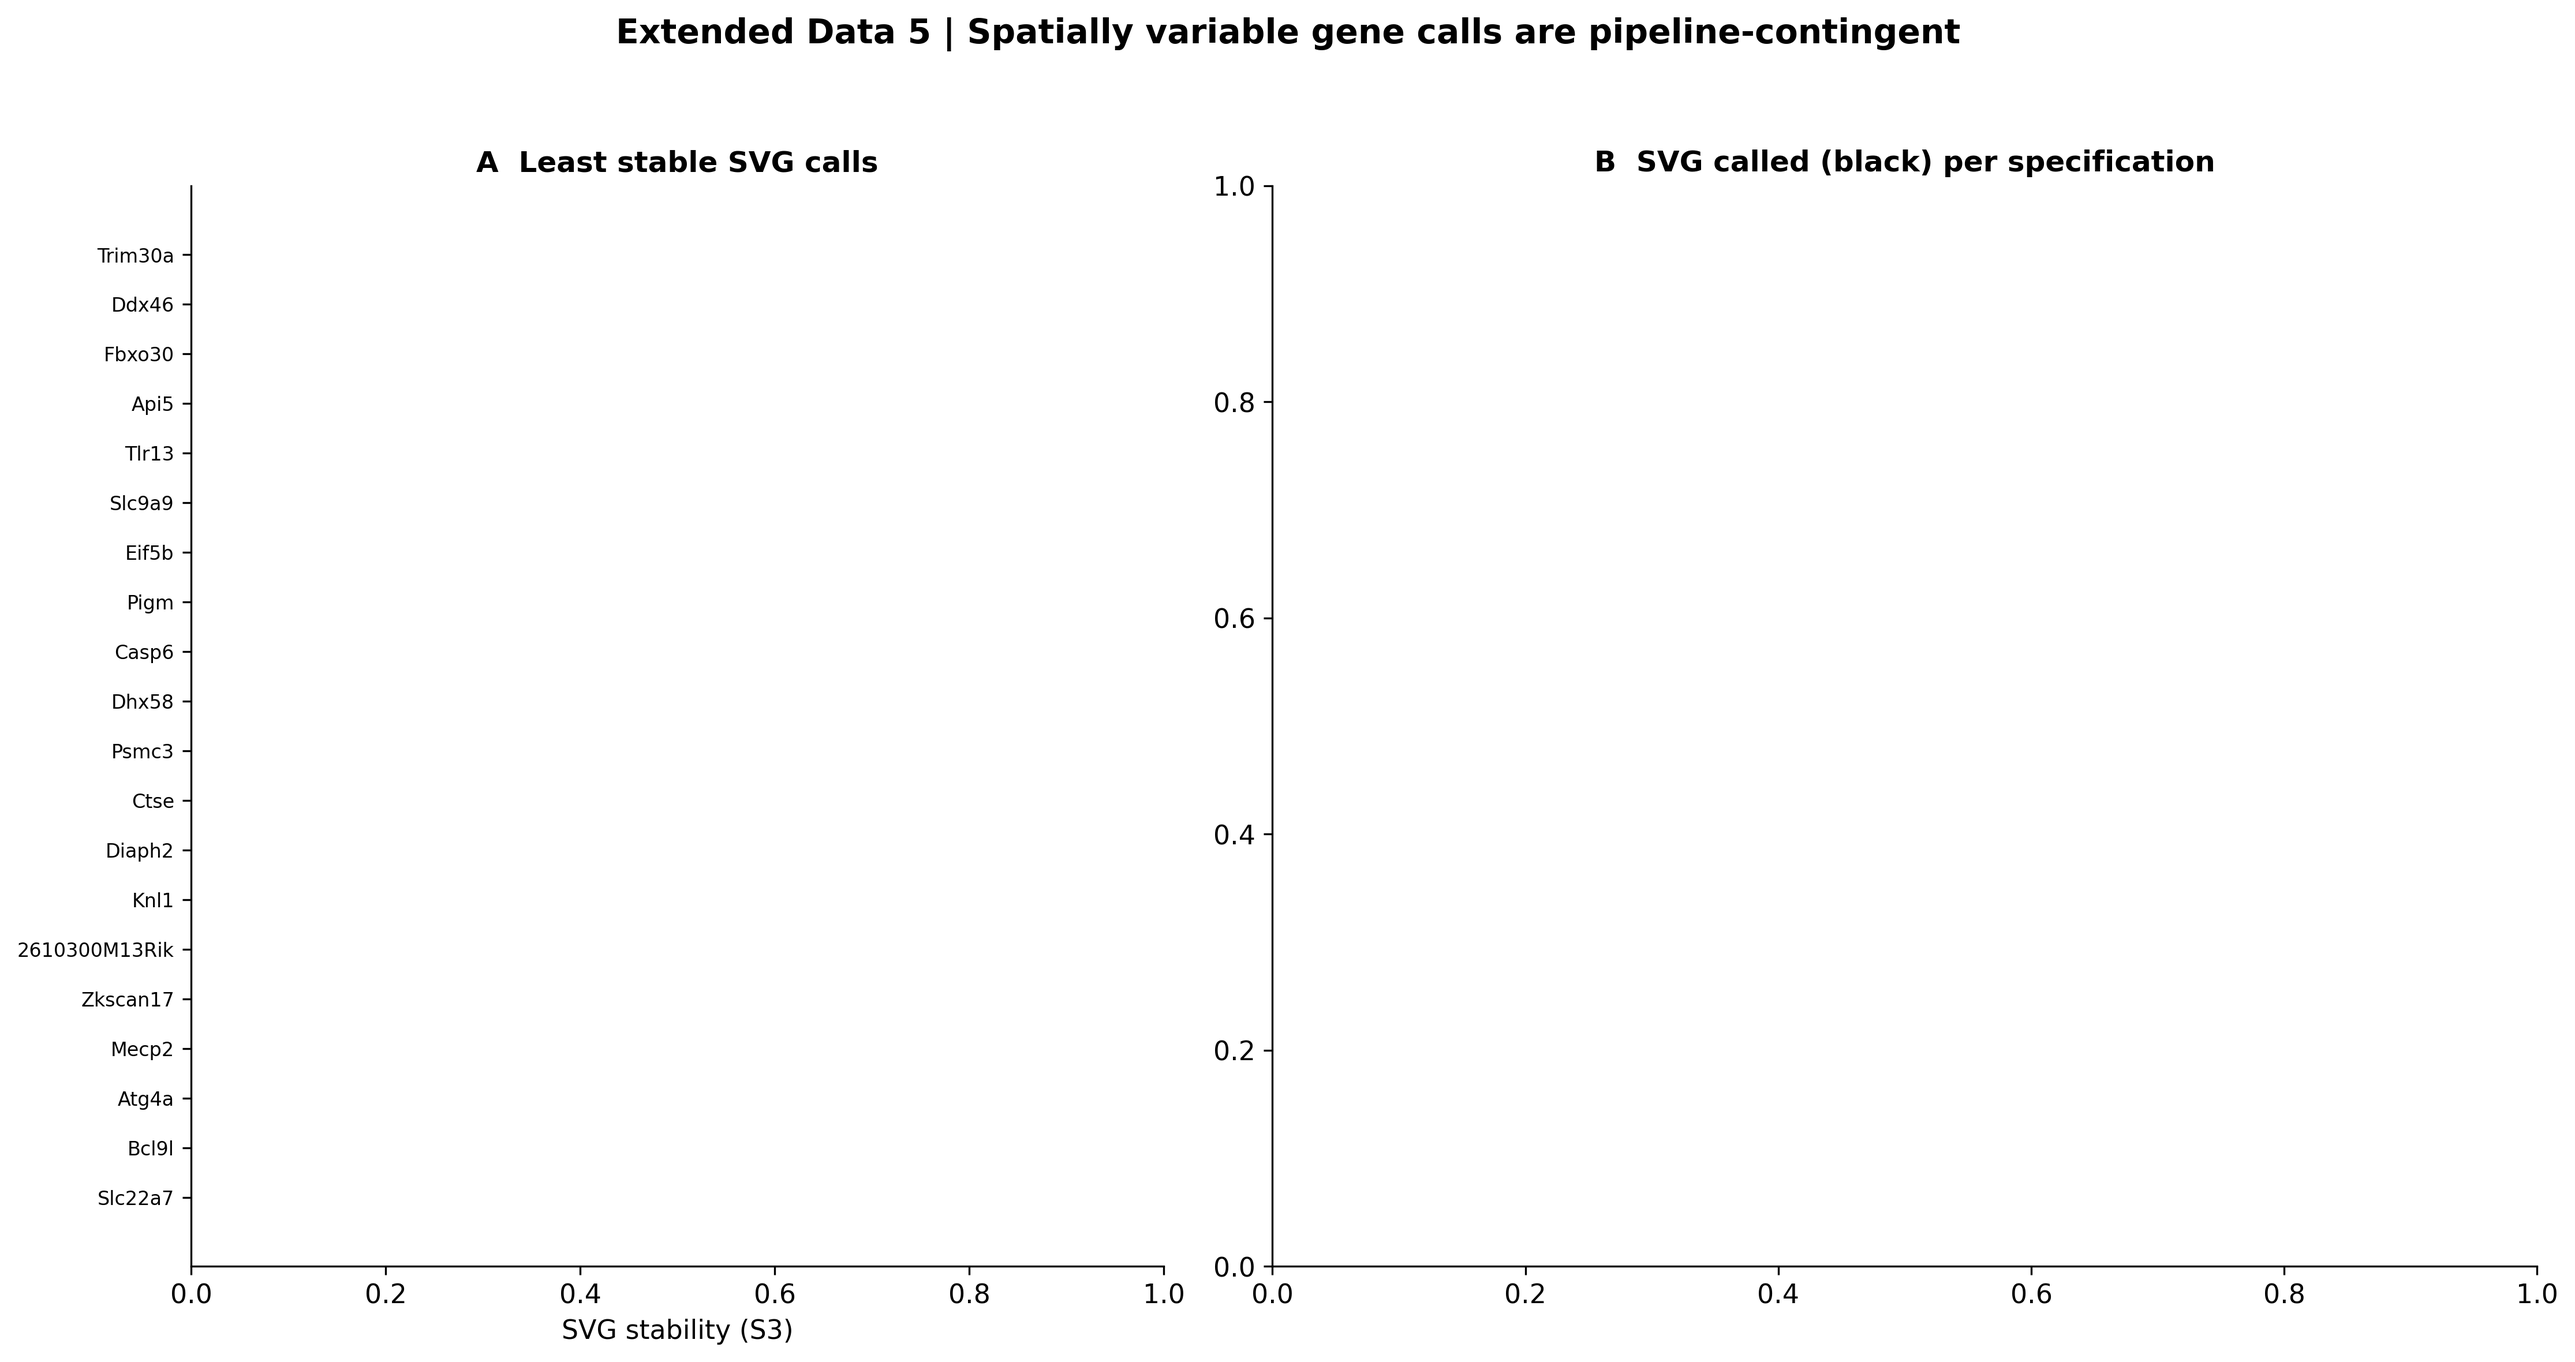
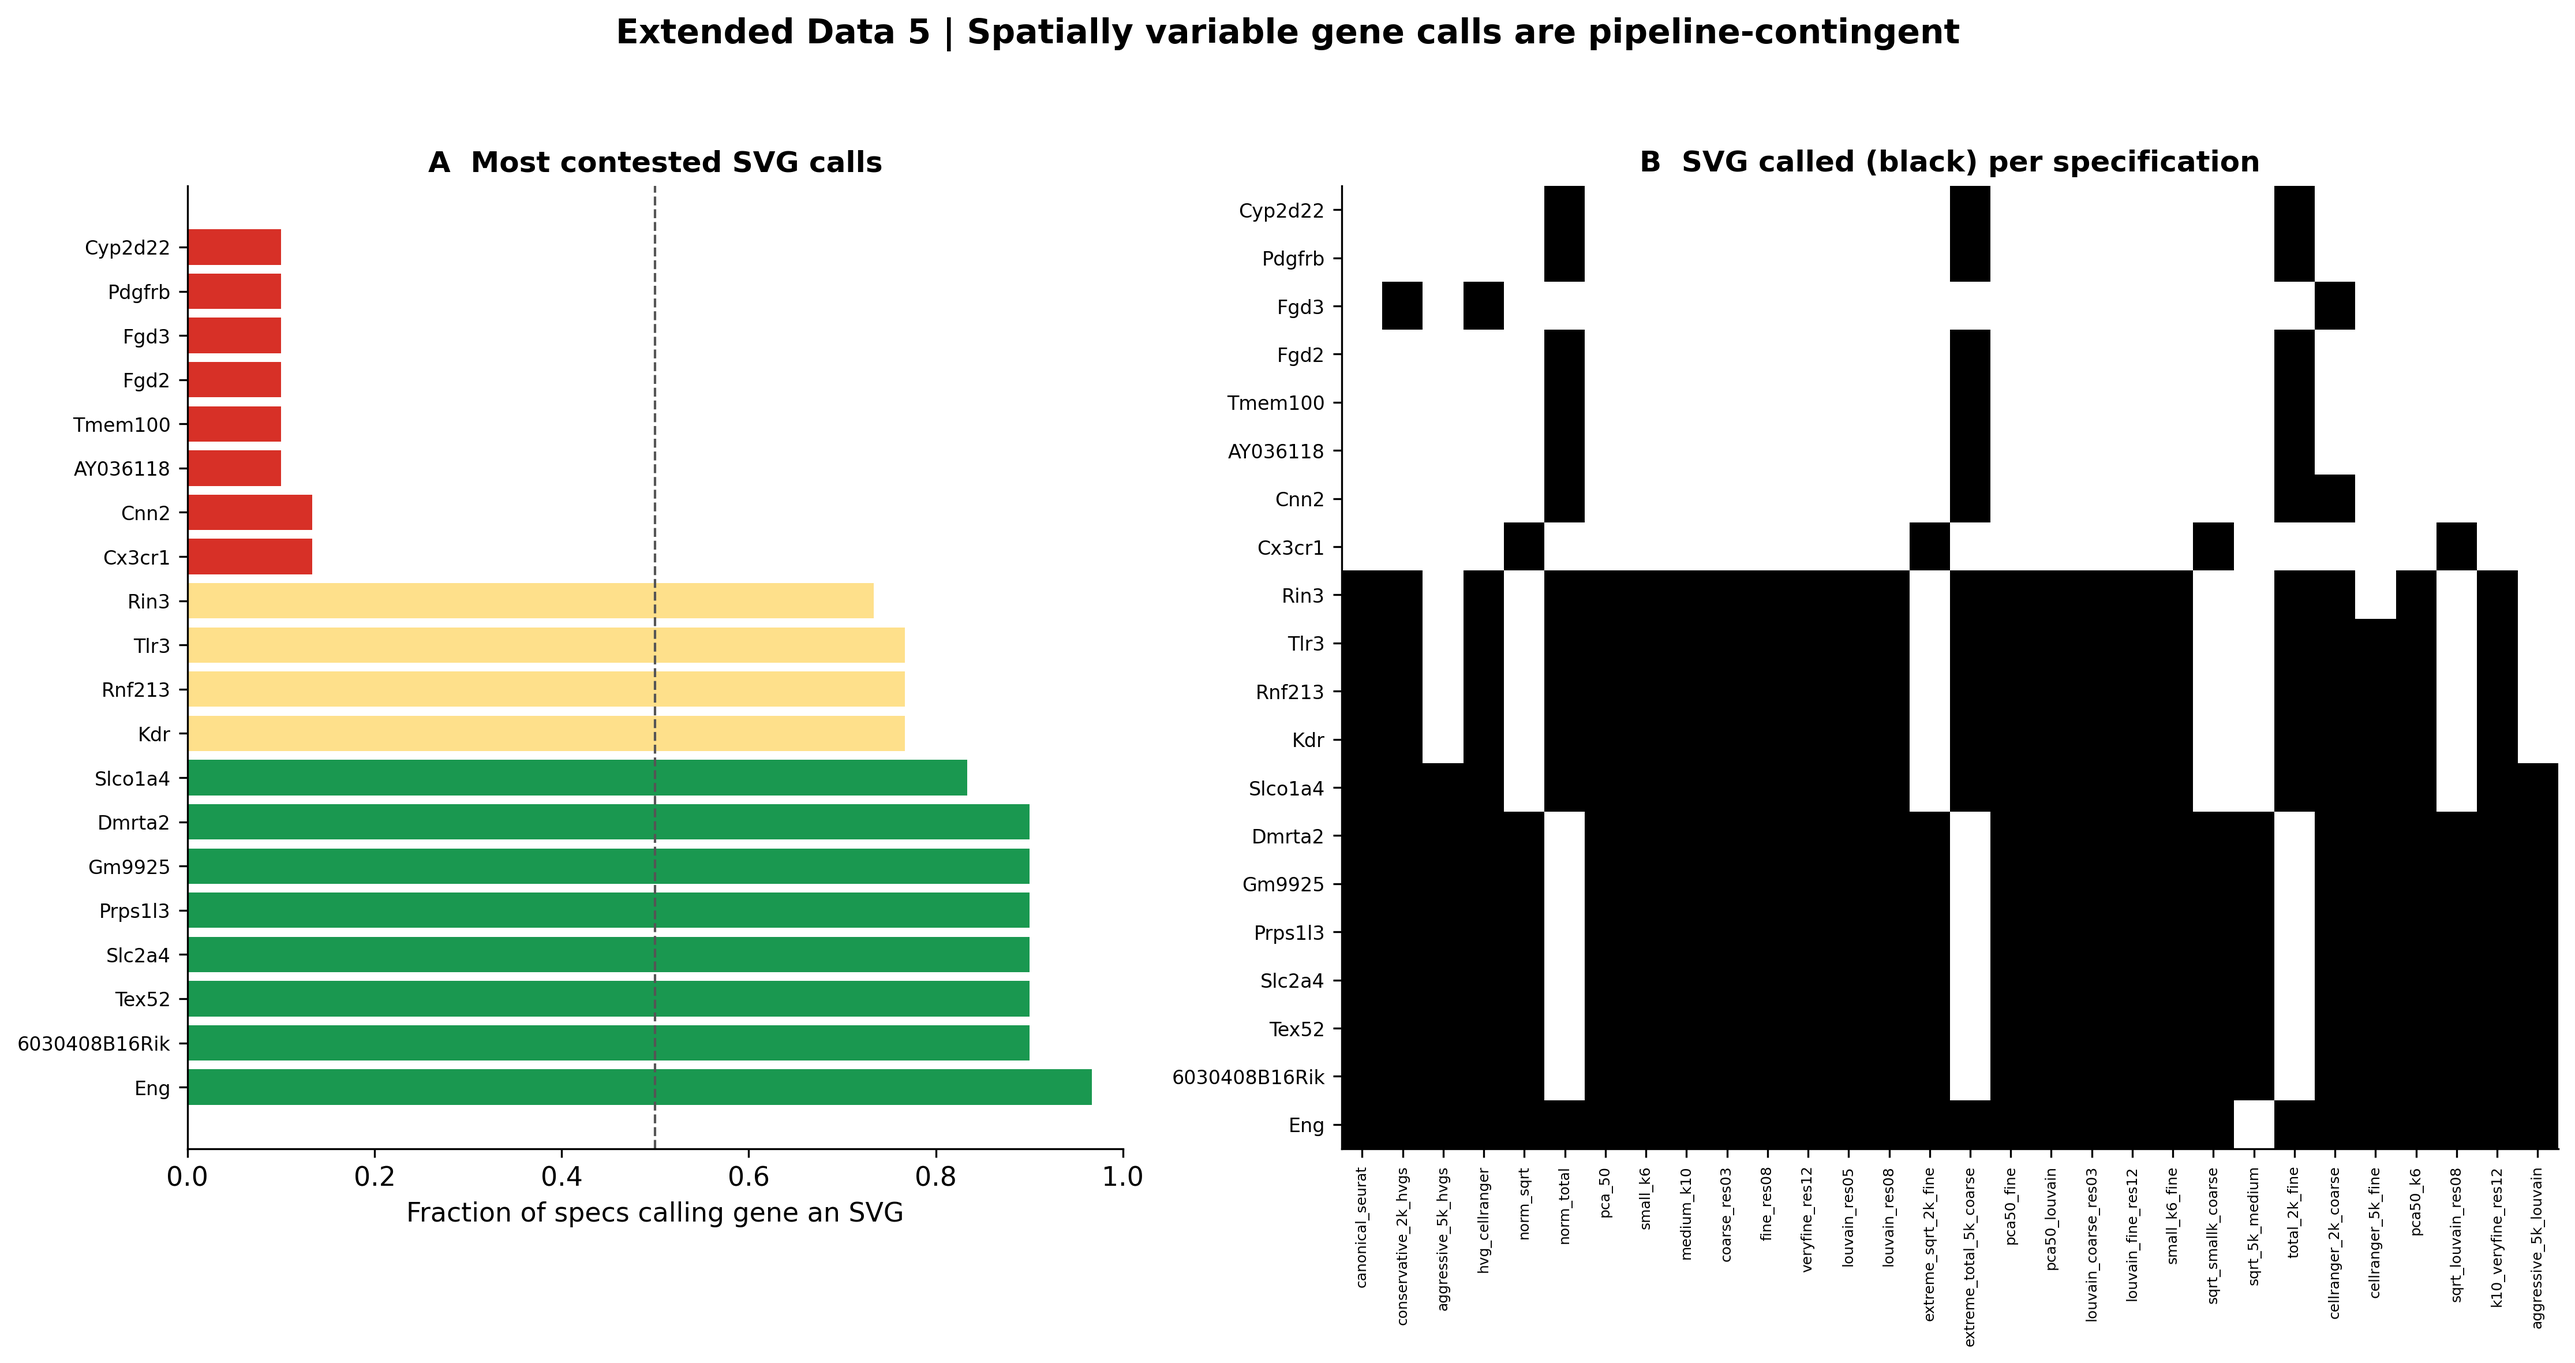
fix empty ED5: rank SVG stability within genes tested in every spec
the old ranking picked globally lowest-S3 genes, which are ones rarely selected
as HVGs (S3~0, and excluded from the common-tested set) -> empty panels; now
rank by SVG call frequency among commonly-tested genes and show the concordance

diff --git a/src/visualization.py b/src/visualization.py
@@ -357,29 +357,41 @@ def ed5_per_feature_stability(
     output_path: Optional[Path] = None,
     top_n: int = 20,
 ) -> None:
-    """Least-stable SVGs barplot + gene x spec SVG concordance heatmap."""
+    """Most-contested SVGs barplot + gene x spec SVG concordance heatmap.
+
+    Restricted to genes tested in every specification, so "instability" reflects
+    genuine significance flips rather than a gene being dropped by feature
+    selection. Genes are ranked by how close their call frequency is to 50%
+    (maximally contested); the SVG stability shown is that call frequency.
+    """
     fig, axes = plt.subplots(1, 2, figsize=(15, 8), gridspec_kw={"width_ratios": [1, 1.3]})
 
-    unstable = per_feature.nsmallest(top_n, "s3_score")
-    colors = ["#D73027" if v < 0.5 else "#FEE08B" if v < 0.8 else "#1A9850"
-              for v in unstable["s3_score"]]
-    axes[0].barh(range(len(unstable)), unstable["s3_score"], color=colors)
-    axes[0].set_yticks(range(len(unstable)))
-    axes[0].set_yticklabels(unstable["gene"], fontsize=8)
+    conc = svg_concordance_matrix(runs, common_only=True)
+    if conc.empty:
+        logger.warning("No genes tested in every spec; skipping ED5")
+        plt.close(fig)
+        return
+
+    gene_freq = conc.mean(axis=1)  # fraction of specs calling each gene an SVG
+    contested = (gene_freq - 0.5).abs().nsmallest(top_n).index
+    freq = gene_freq.loc[contested].sort_values()
+
+    colors = ["#D73027" if v < 0.5 else "#FEE08B" if v < 0.8 else "#1A9850" for v in freq]
+    axes[0].barh(range(len(freq)), freq.values, color=colors)
+    axes[0].set_yticks(range(len(freq)))
+    axes[0].set_yticklabels(freq.index, fontsize=8)
     axes[0].invert_yaxis()
     axes[0].set_xlim(0, 1)
-    axes[0].set_xlabel("SVG stability (S3)")
-    axes[0].set_title("A  Least stable SVG calls")
+    axes[0].axvline(0.5, color="#555555", ls="--", lw=1)
+    axes[0].set_xlabel("Fraction of specs calling gene an SVG")
+    axes[0].set_title("A  Most contested SVG calls")
 
-    conc = svg_concordance_matrix(runs, common_only=True)
-    genes = [g for g in unstable["gene"] if g in conc.index]
-    if genes:
-        sub = conc.loc[genes]
-        axes[1].imshow(sub.values, aspect="auto", cmap="binary", interpolation="nearest")
-        axes[1].set_yticks(range(len(sub)))
-        axes[1].set_yticklabels(sub.index, fontsize=8)
-        axes[1].set_xticks(range(sub.shape[1]))
-        axes[1].set_xticklabels(sub.columns, rotation=90, fontsize=6)
+    sub = conc.loc[freq.index]
+    axes[1].imshow(sub.values, aspect="auto", cmap="binary", interpolation="nearest")
+    axes[1].set_yticks(range(len(sub)))
+    axes[1].set_yticklabels(sub.index, fontsize=8)
+    axes[1].set_xticks(range(sub.shape[1]))
+    axes[1].set_xticklabels(sub.columns, rotation=90, fontsize=6)
     axes[1].set_title("B  SVG called (black) per specification")
 
     fig.suptitle("Extended Data 5 | Spatially variable gene calls are pipeline-contingent",
